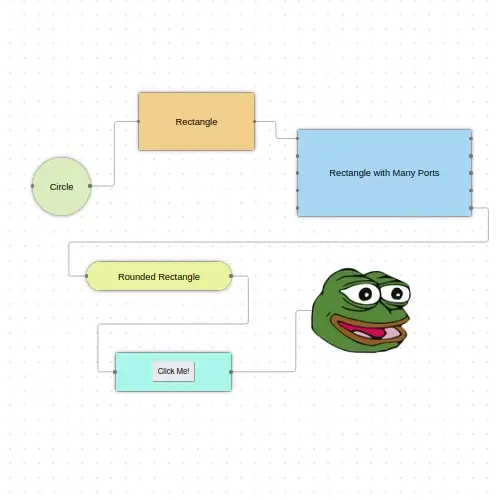
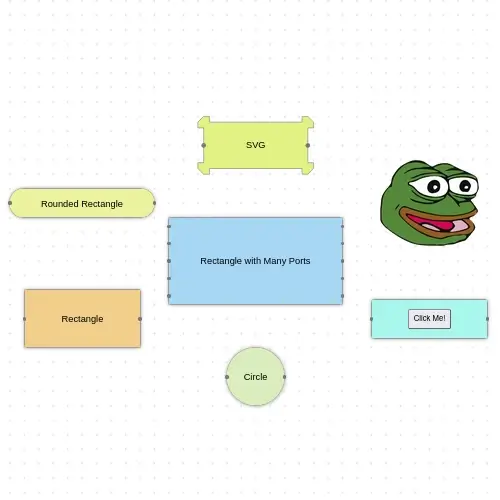
added node SVG example

diff --git a/static/use-cases/nodes-customization/index.html b/static/use-cases/nodes-customization/index.html
@@ -135,6 +135,17 @@
         background: #777777;
         border-radius: 3px;
       }
+
+      .svg-node {
+        pointer-events: none;
+        width: 200px;
+        height: 100px;
+        overflow: visible;
+      }
+
+      .svg-shape {
+        pointer-events: auto;
+      }
     </style>
   </head>
   <body>
@@ -166,24 +177,24 @@
           this.canvas.addNode(
             this.createCircleNode({
               name: "Circle",
-              x: 200,
-              y: 200,
+              x: 500,
+              y: 700,
               frontPortId: "circle-node-in",
               backPortId: "circle-node-out",
             }),
           ).addNode(
             this.createRectangleNode({
               name: "Rectangle",
-              x: 500,
-              y: 200,
+              x: 200,
+              y: 600,
               frontPortId: "rectangle-node-in",
               backPortId: "rectangle-node-out",
             }),
           ).addNode(
             this.createRectangleManyPortsNode({
               name: "Rectangle with Many Ports",
-              x: 900,
-              y: 200,
+              x: 500,
+              y: 500,
               frontPorts: [
                 "many-ports-1-in",
                 "many-ports-2-in",
@@ -203,41 +214,33 @@
             this.createRoundedRectangleNode({
               name: "Rounded Rectangle",
               x: 200,
-              y: 500,
+              y: 400,
               frontPortId: "rounded-rectangle-node-in",
               backPortId: "rounded-rectangle-node-out",
             }),
           ).addNode(
             this.createButtonNode({
               name: "Click Me!",
-              x: 500,
-              y: 500,
+              x: 800,
+              y: 600,
               frontPortId: "button-node-in",
               backPortId: "button-node-out",
             }),
           ).addNode(
             this.createImageNode({
               src: "/images/pepe.png",
-              x: 900,
-              y: 500,
+              x: 800,
+              y: 400,
               portId: "image-port",
             }),
-          ).addEdge({
-            from: "circle-node-out",
-            to: "rectangle-node-in",
-          }).addEdge({
-            from: "rectangle-node-out",
-            to: "many-ports-1-in",
-          }).addEdge({
-            from: "many-ports-5-out",
-            to: "rounded-rectangle-node-in",
-          }).addEdge({
-            from: "rounded-rectangle-node-out",
-            to: "button-node-in",
-          }).addEdge({
-            from: "button-node-out",
-            to: "image-port",
-          });
+          ).addNode(
+            this.createSvgNode({
+              x: 500,
+              y: 300,
+              frontPortId: "svg-node-in",
+              backPortId: "svg-node-out",
+            }),
+          );
         }
 
         createCircleNode({ name, x, y, frontPortId, backPortId }) {
@@ -404,6 +407,78 @@
             y: y,
             ports: [
               { id: portId, element: node },
+            ],
+          };
+        }
+
+        createSvgNode({ x, y, frontPortId, backPortId }) {
+          const svg = document.createElementNS(
+            "http://www.w3.org/2000/svg",
+            "svg",
+          );
+
+          svg.classList.add("svg-node");
+
+          const polygon = document.createElementNS(
+            "http://www.w3.org/2000/svg",
+            "path",
+          );
+
+          polygon.setAttribute(
+            "d",
+            `M 10 0 L 20 0 L 20 10 L 180 10 L 180 0 L 190 0 L 200 10 L 200 20 L
+            190 20 L 190 80 L 200 80 L 200 90 L 190 100 L 180 100 L 180 90 L 20
+            90 L 20 100 L 10 100 L 0 90 L 0 80 L 10 80 L 10 20 L 0 20 L 0 10 Z`,
+          );
+          polygon.setAttribute("fill", "#e3f285");
+          polygon.setAttribute("stroke", "#777777");
+          polygon.classList.add("svg-shape");
+
+          svg.appendChild(polygon);
+
+          const circleOut = document.createElementNS(
+            "http://www.w3.org/2000/svg",
+            "circle",
+          );
+
+          circleOut.setAttribute("r", "4");
+          circleOut.setAttribute("cx", "190");
+          circleOut.setAttribute("cy", "50");
+          circleOut.setAttribute("fill", "#777777");
+
+          svg.appendChild(circleOut);
+
+          const circleIn = document.createElementNS(
+            "http://www.w3.org/2000/svg",
+            "circle",
+          );
+
+          circleIn.setAttribute("r", "4");
+          circleIn.setAttribute("cx", "10");
+          circleIn.setAttribute("cy", "50");
+          circleIn.setAttribute("fill", "#777777");
+
+          svg.appendChild(circleIn);
+
+          const text = document.createElementNS(
+            "http://www.w3.org/2000/svg",
+            "text",
+          );
+
+          text.innerHTML = "SVG";
+          text.setAttribute("x", "100");
+          text.setAttribute("y", "55");
+          text.setAttribute("text-anchor", "middle");
+
+          svg.appendChild(text);
+
+          return {
+            element: svg,
+            x: x,
+            y: y,
+            ports: [
+              { id: backPortId, element: circleOut },
+              { id: frontPortId, element: circleIn },
             ],
           };
         }
